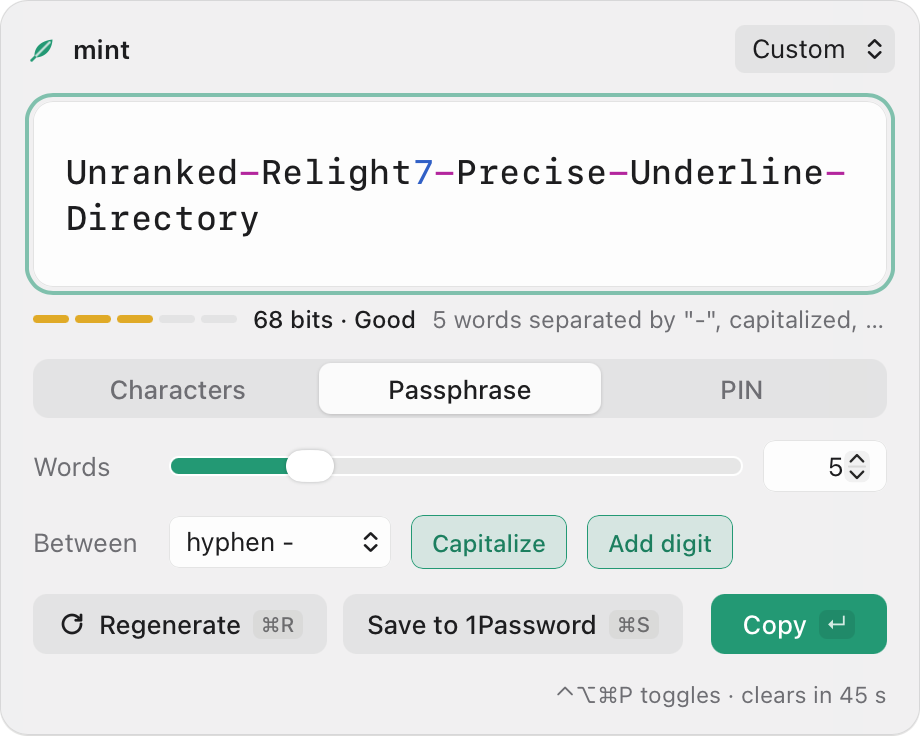
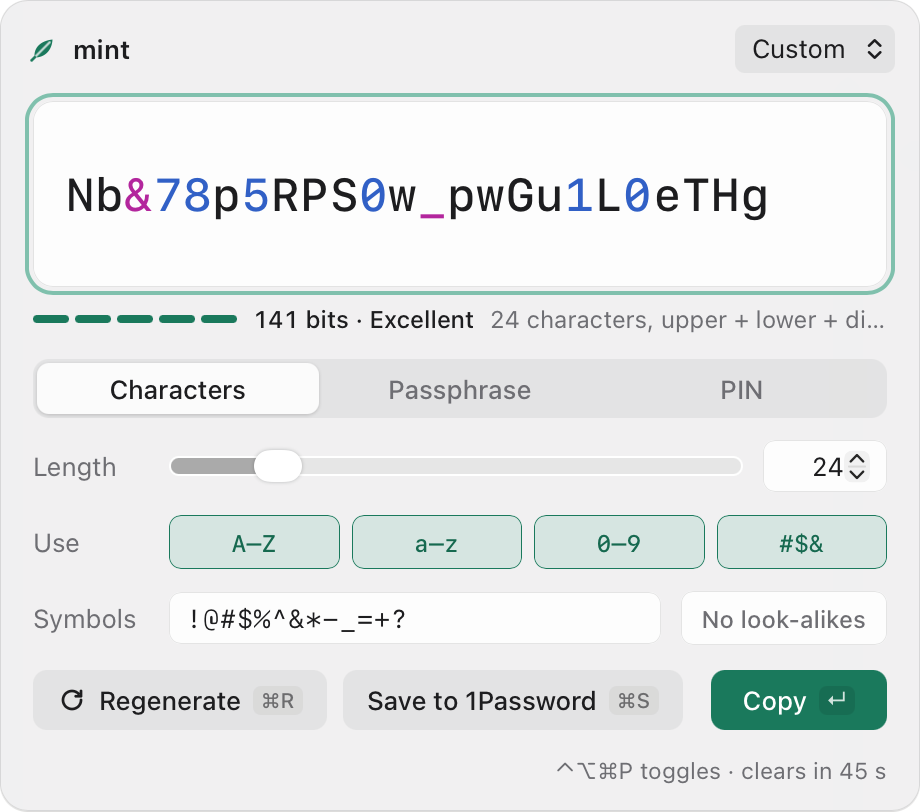
README; audit fixes: accent contrast to AA, kind buttons as toggles; demo states start from the default rule; screenshots

diff --git a/crates/mint-app/ui/app.js b/crates/mint-app/ui/app.js
@@ -113,7 +113,7 @@ function lengthBounds() {
 }
 
 function renderControls() {
-  for (const b of els.kinds) b.setAttribute("aria-checked", String(b.dataset.kind === rule.kind));
+  for (const b of els.kinds) b.setAttribute("aria-pressed", String(b.dataset.kind === rule.kind));
   const bounds = lengthBounds();
   els.lengthLabel.textContent = bounds.label;
   els.slider.min = bounds.min;
@@ -376,6 +376,7 @@ async function start() {
   els.hint.textContent = keys ? `${keys} toggles · clears in ${clearAfter} s` : `clears in ${clearAfter} s`;
   if (init.hotkey_error) setStatus(init.hotkey_error, "error");
   if (!clearAfter) els.hint.textContent = keys ? `${keys} toggles` : "";
+  if (init.demo) rule = init.rule; // demo states start from the default rule, not the stored one
   if (init.demo === "words") rule = { ...rule, kind: "words", words: 5, capitalize: true, word_digit: true, preset: null };
   if (init.demo === "pin") rule = { ...rule, kind: "pin", length: 6, preset: null };
   await regenerate();

diff --git a/crates/mint-app/ui/index.html b/crates/mint-app/ui/index.html
@@ -32,10 +32,10 @@
     </section>
 
     <section class="controls">
-      <div class="segmented" role="radiogroup" aria-label="Kind">
-        <button type="button" role="radio" data-kind="chars">Characters</button>
-        <button type="button" role="radio" data-kind="words">Passphrase</button>
-        <button type="button" role="radio" data-kind="pin">PIN</button>
+      <div class="segmented" role="group" aria-label="Kind of password">
+        <button type="button" data-kind="chars">Characters</button>
+        <button type="button" data-kind="words">Passphrase</button>
+        <button type="button" data-kind="pin">PIN</button>
       </div>
 
       <div class="row">

diff --git a/crates/mint-app/ui/style.css b/crates/mint-app/ui/style.css
@@ -6,8 +6,8 @@
   --panel: rgba(246, 246, 248, 0.78);
   --card: rgba(255, 255, 255, 0.82);
   --field: rgba(255, 255, 255, 0.9);
-  --accent: #0b9b74;
-  --accent-strong: #08805f;
+  --accent: #087a5c;
+  --accent-strong: #066a4f;
   --accent-soft: rgba(11, 155, 116, 0.13);
   --on-accent: #ffffff;
   --digit: #0a63c9;
@@ -142,7 +142,7 @@ html, body {
   font-weight: 500;
   color: var(--muted);
 }
-.segmented button[aria-checked="true"] {
+.segmented button[aria-pressed="true"] {
   background: var(--card);
   color: var(--text);
   box-shadow: 0 0.5px 1.5px rgba(0, 0, 0, 0.18);

diff --git a/crates/mint-app/src/main.rs b/crates/mint-app/src/main.rs
@@ -418,26 +418,24 @@ fn set_launch_at_login(app: &AppHandle, on: bool) {
 /// Generates with `rule`, copies it, and flashes a check in the menu bar.
 fn copy_from_menu(app: &AppHandle, rule: Rule) {
     let state = app.state::<AppState>();
-    let result = generated(&rule).and_then(|g| copy_secret(&g.password, state.settings.clear_after));
+    let result =
+        rule.generate().map_err(CmdError::from).and_then(|p| copy_secret(&p.value, state.settings.clear_after));
     let (title, tip) = match result {
         Ok(_) => ("✓", "mint: copied".to_string()),
         Err(e) => ("!", format!("mint: {}", e.error)),
     };
     if let Some(tray) = app.tray_by_id("main") {
-        #[cfg(target_os = "macos")]
         let _ = tray.set_title(Some(title));
         let _ = tray.set_tooltip(Some(&tip));
         let app = app.clone();
         std::thread::spawn(move || {
             std::thread::sleep(Duration::from_millis(1600));
             if let Some(tray) = app.tray_by_id("main") {
-                #[cfg(target_os = "macos")]
                 let _ = tray.set_title(None::<&str>);
                 let _ = tray.set_tooltip(Some("mint"));
             }
         });
     }
-    let _ = title;
 }
 
 fn build_tray(app: &AppHandle) -> tauri::Result<()> {

diff --git a/README.md b/README.md
@@ -1,0 +1,183 @@
+# mint
+
+A password generator with one engine and several ways in: a command line, a small window, a global hotkey and menu bar icon on macOS, and an Omarchy bar widget on Linux (the `omarchy-mint` plugin). Passwords save straight into 1Password.
+
+<p align="center">
+  <img src="docs/screenshots/window-main-light.png" width="380" alt="mint window, light">
+  <img src="docs/screenshots/window-words-dark.png" width="380" alt="mint window, dark, passphrase">
+</p>
+
+## Install
+
+### macOS
+
+Requires stable Rust, Node (for the Tauri CLI) and Xcode command line tools.
+
+```sh
+scripts/install-macos.sh            # launch at login on
+scripts/install-macos.sh --no-login
+```
+
+- `/Applications/mint.app`: menu bar icon, window and global hotkey (⌃⌥⌘P)
+- `~/.local/bin/mint`: a link to the CLI inside the app (`MINT_BIN_DIR` changes the directory)
+- Ad hoc signed, for the machine that built it
+
+### Linux
+
+- `packaging/linux/PKGBUILD` builds `mint` and `mint-app` and installs a desktop file (`makepkg -si` in that directory)
+- Wayland has no global hotkeys for apps: a compositor bind runs `mint gui --toggle`, e.g. Hyprland `bind = SUPER SHIFT, P, exec, mint gui --toggle`
+- Clipboard: `wl-clipboard` 2.3 or later (for `--sensitive`)
+
+### Windows
+
+- CI builds `mint.exe` and `mint-app.exe` as an artifact; untested on a real machine
+
+### CLI only
+
+```sh
+cargo install --path crates/mint-cli
+```
+
+## Command line
+
+```sh
+mint                          # 24 characters, all four classes
+mint 32                       # length 32
+mint 10-16 --require 3        # a site's "10 to 16, 3 of 4 types": uses 16
+mint --preset moneris         # the same rule by name
+mint --no-symbols 20          # letters and digits
+mint --symbols '!#$' 16       # only the symbols a site accepts
+mint --no-ambiguous           # no 0 O o 1 l I |
+mint --words 5 --capitalize --digit
+mint --pin 6
+mint --count 5                # five, one per line
+mint --copy                   # to the clipboard, hidden from history, cleared after 45 s
+mint --json                   # {"password", "length", "kind", "classes", "entropy_bits", "rule"}
+mint save --title "Moneris" --url https://moneris.com --username me --preset moneris
+mint save --item "Moneris" 16 # replace an existing item's password
+mint gui --toggle             # show or hide the window
+mint presets
+```
+
+- Plain output by default; `--json` for scripts; no prompts
+- `mint save` prints the item ID and a 1Password link, not the password (`--show` adds it)
+- The JSON contract, field by field: [SPEC.md](SPEC.md#json-contract)
+
+| Exit code | Meaning |
+|---|---|
+| 0 | Success |
+| 2 | Usage error |
+| 3 | The rule cannot be satisfied |
+| 4 | 1Password CLI missing, not signed in, or failed |
+| 5 | Clipboard failed |
+
+## Window
+
+| Key | Action |
+|---|---|
+| ⌃⌥⌘P | Show or hide (macOS; Ctrl+Shift+Alt+P on Windows) |
+| Enter | Copy and hide |
+| ⌘R / Ctrl+R | Regenerate |
+| ⌘S / Ctrl+S | Save to 1Password (again to submit) |
+| ⌘P / Ctrl+P | Presets |
+| Esc | Close the save form, then hide |
+
+- Opens focused, with a fresh password, centered on the screen under the pointer
+- Digits and symbols are tinted; strength is shown in bits
+- On macOS it is a non-activating panel, like Spotlight: it works over full-screen apps, and focus returns to the previous app when it hides
+- Menu bar: Generate, Copy New Password, Open Window, Copy From Preset, Launch at Login, Quit
+
+## Presets
+
+| Name | Rule |
+|---|---|
+| `moneris` | 10 to 16 characters (uses 16), all four classes, at least 3 |
+| `alnum` | 24 letters and digits |
+| `wifi` | 63 characters, no ambiguous characters |
+| `words` | 5 words, capitalized, one digit |
+| `pin4`, `pin6` | 4 or 6 digits |
+
+User presets live in `~/.config/mint/presets.toml` (`%APPDATA%\mint\presets.toml` on Windows), one table per site; a user preset replaces a built-in of the same name.
+
+```toml
+[bank]
+description = "Bank website"
+length = "8-12"
+classes = ["upper", "lower", "digits"]
+require = 3
+
+[router]
+length = 32
+symbols = "!@#"
+no_ambiguous = true
+
+[memorable]
+words = 6
+separator = "."
+capitalize = true
+digit = true
+
+[door]
+pin = 8
+```
+
+## Settings
+
+`~/.config/mint/config.toml` (`%APPDATA%\mint\config.toml` on Windows):
+
+```toml
+hotkey = "Ctrl+Alt+Cmd+P"   # global shortcut for the window
+clear_after = 45            # seconds before a copied password is cleared; 0 = never
+hide_on_blur = true         # hide the window when it loses focus
+default_preset = "moneris"  # rule that bare `mint` and the window start from
+theme = "system"            # window: system, light or dark
+```
+
+The app writes a log of startup, hotkey registration and login-item changes to `~/Library/Logs/mint.log` (macOS) or `~/.config/mint/mint.log`. It never logs passwords.
+
+## Security model
+
+**Randomness**
+- Every byte comes from the operating system's CSPRNG through `getrandom`: `getentropy` on macOS, `getrandom(2)` on Linux, `ProcessPrng` on Windows. No userspace PRNG holds password material.
+- Characters are chosen by rejection sampling against a power-of-two mask: no `%`, no bias. A test fails the build if the sampling code ever takes a remainder.
+- Required classes: one character from each enabled class, the rest from all enabled classes, then a Fisher–Yates shuffle with the same source.
+- Tests: chi-square at p = 1e-6 over the sampler, the generated characters and the shuffle; every class present in 100,000 generations.
+- Entropy is a conservative lower bound: `sum(log2 |class|)` for the guaranteed characters plus `(length − classes) × log2 |pool|`; passphrases `words × log2 7776`; PINs `digits × log2 10`.
+
+**Secrets**
+- Passwords never appear in argv, logs or files. `op` receives them as an item JSON template on stdin (`op item create … -`, `op item edit ID` with piped JSON); `wl-copy` and the Linux clipboard clearer receive them on stdin.
+- Buffers holding passwords are zeroed on drop (`zeroize`), and `Debug` output redacts them.
+- `mint save --item` refuses items that hold a passkey: the 1Password CLI drops passkeys when it edits from JSON.
+
+**Clipboard**
+- macOS: `org.nspasteboard.ConcealedType` and `TransientType`, so clipboard managers skip the copy.
+- Linux: `wl-copy --sensitive` (`x-kde-passwordManagerHint`). Older wl-copy works without the hint, and mint says so.
+- Windows: `ExcludeClipboardContentFromMonitorProcessing`, `CanIncludeInClipboardHistory = 0`, `CanUploadToCloudClipboard = 0`.
+- Cleared after 45 s only if nothing else has been copied since: macOS and Windows compare the clipboard change counter, without reading it; Linux compares the text.
+
+**1Password**
+- `op` is found through `MINT_OP`, then `PATH`, then `/opt/homebrew/bin`, `/usr/local/bin`, `/usr/bin`. Once `MINT_OP` is set, it is the only place mint looks.
+- The first save from the app asks 1Password to approve `mint-app` for CLI access.
+
+## Development
+
+```sh
+cargo test --workspace            # core and CLI
+cargo run -p mint-app             # the window, debug build
+MINT_DEMO=save cargo run -p mint-app   # debug only: fixed states for screenshots (main, save, words, pin, copy)
+```
+
+- `crates/mint-core`: generation, presets, clipboard, 1Password
+- `crates/mint-cli`: the `mint` binary
+- `crates/mint-app`: the Tauri window, menu bar and hotkey (`mint-app`)
+- A debug build hands off to a running `mint.app` (single instance, same identifier); quit mint from the menu bar first
+- Tests never reach the real 1Password account: CLI tests point `MINT_OP` at a missing path, and core unit tests refuse to run `op` unless `MINT_TEST_REAL_OP=1`
+
+## Credits
+
+- Passphrase words: the [EFF large wordlist](https://www.eff.org/dice) (CC BY 3.0 US), Electronic Frontier Foundation
+- Built on [Tauri](https://tauri.app) and [tauri-nspanel](https://github.com/ahkohd/tauri-nspanel)
+
+## License
+
+MIT
